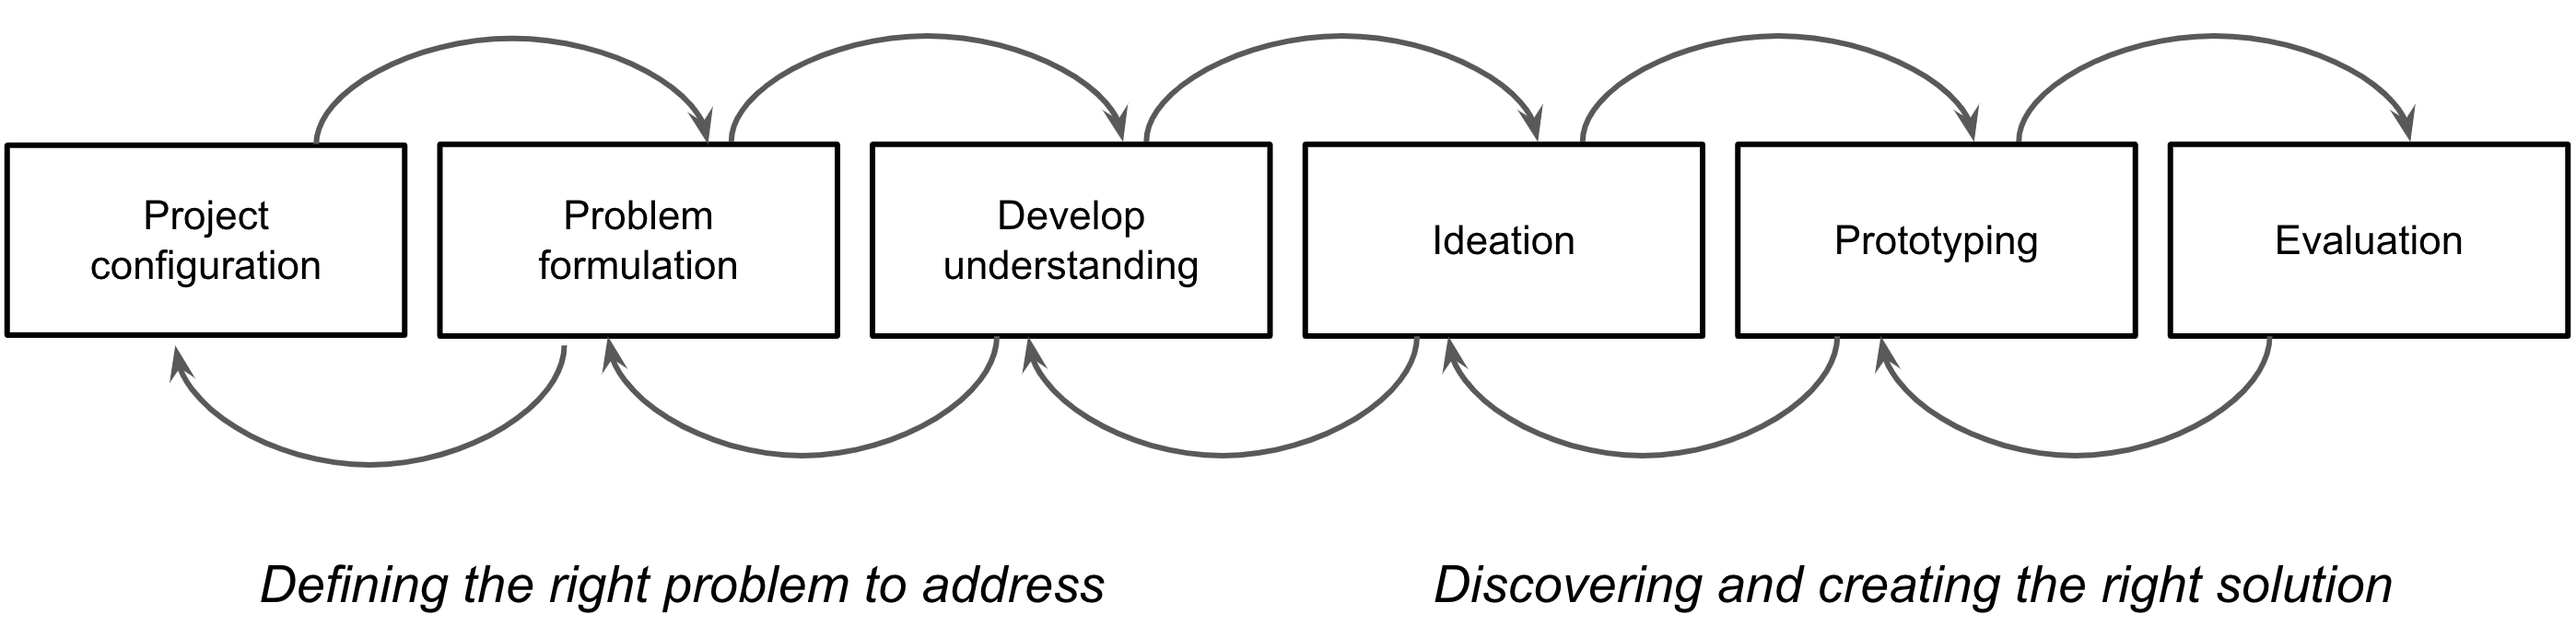
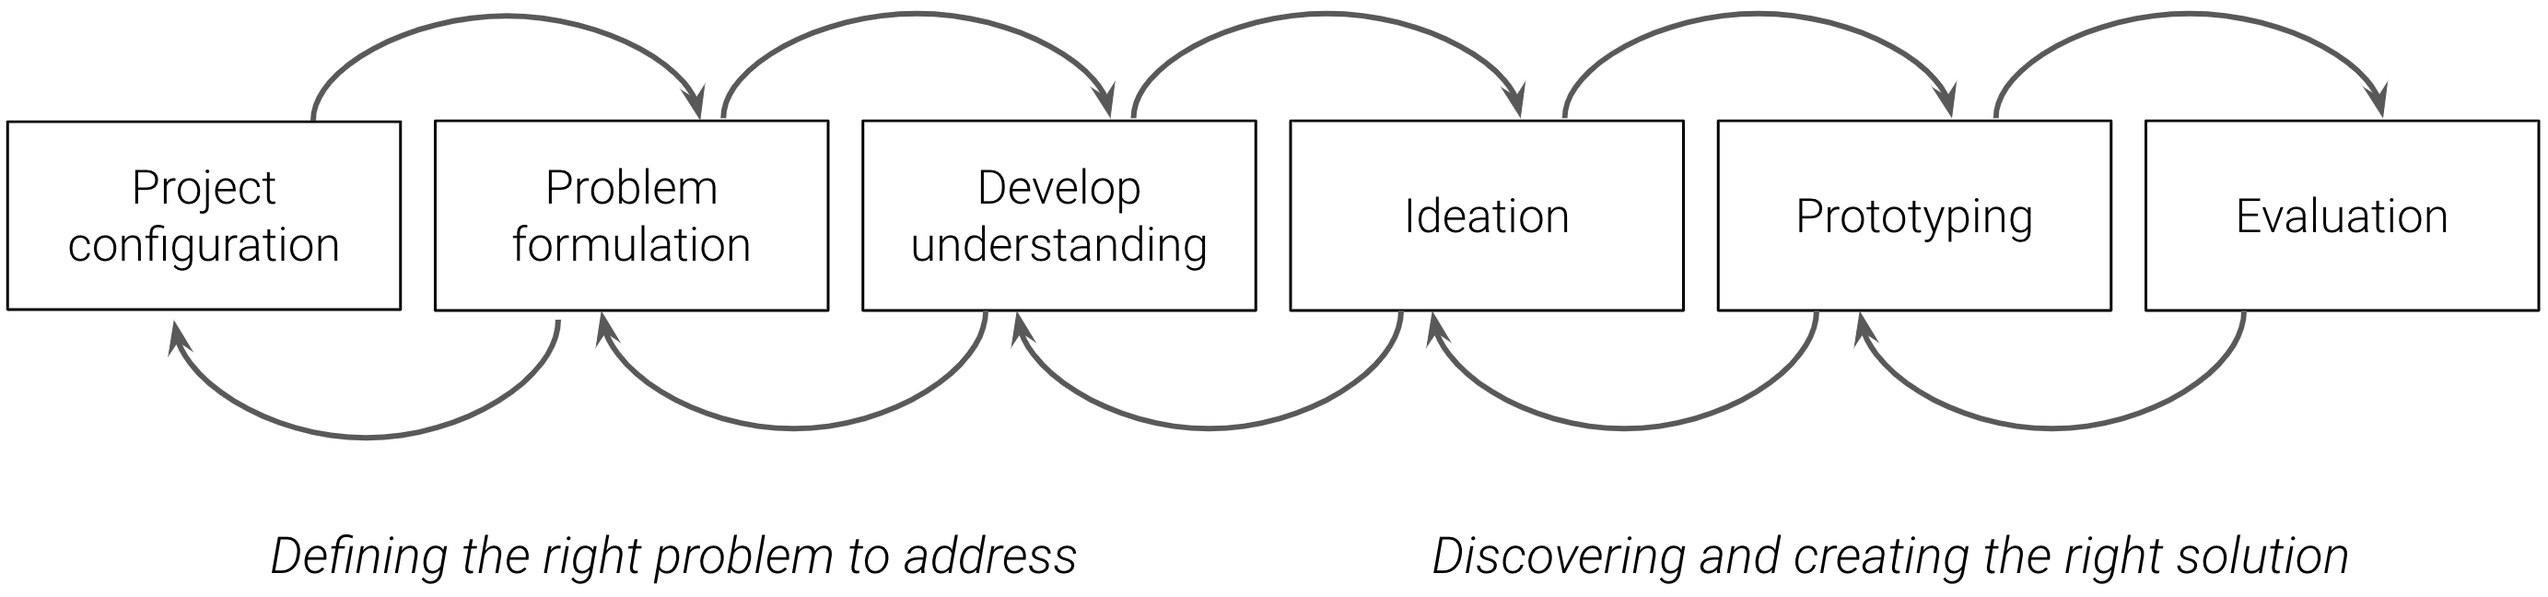
Minor style changes

diff --git a/style.css b/style.css
@@ -15,10 +15,10 @@ h2 {
 }
 h3 {
   font-family: 'Roboto', sans-serif;
-  background-color: #f8fafc;
-  padding: 15px 5px;
+  background-color: white;
+  padding: 15px 0px;
   margin: 0;
-  font-size: 20px;
+  font-size: 24px;
 }
 p {
   font-family: 'Roboto light', sans-serif;
@@ -32,7 +32,7 @@ li {
   line-height: 1.5;
 }
 section {
-  margin: 30px auto;
+  margin: 30px auto 50px auto;
   width: 48vw;
 
 }
@@ -84,5 +84,5 @@ header img {
 #main_process_figure {
   height: 250px;
   display: block;
-  margin: 60px auto;
+  margin: 0px auto 50px auto;
 }
